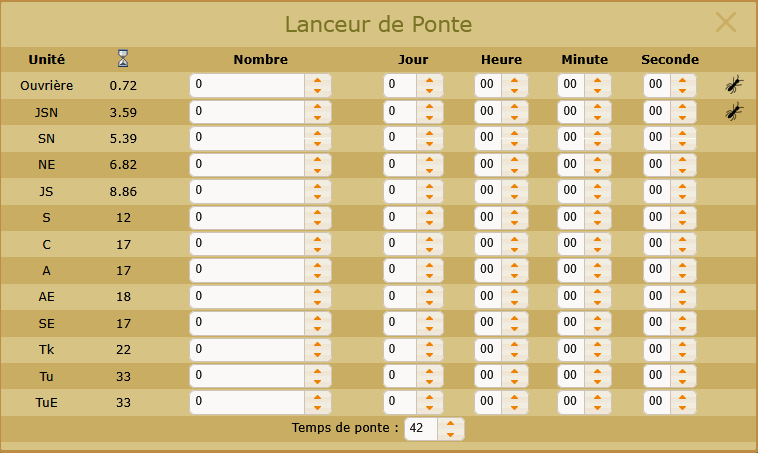
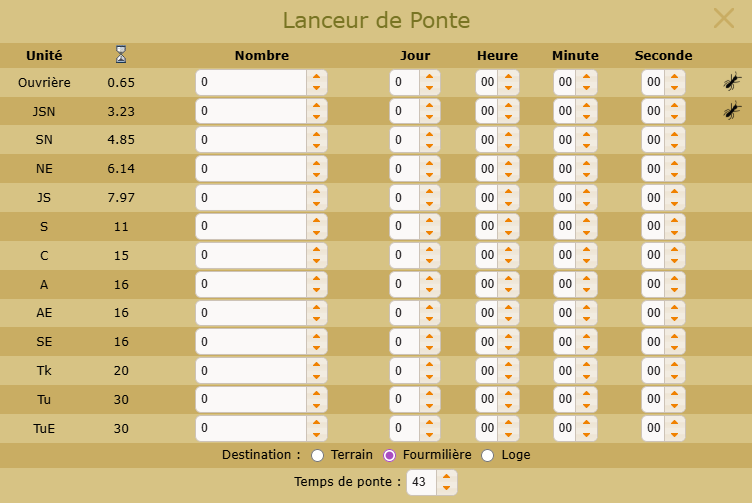
docs(wiki): document destination radio + new À propos link, simplify install
- Lanceur-de-Ponte: new "Destination" section for the Terrain/Fourmilière/
  Loge radios added in 5eda7b8 (defaults to Fourmilière) and refreshed
  screenshot.
- Boite-Parametres: mention the new Wiki link in the À propos tab list
  added in 51efb5b.
- Home: replace store-link placeholders with the actual Chrome Web Store
  and AMO URLs.
- Installation: rewrite around the README-style install banner (browser
  icons + version badges) — much shorter, more visual, matches the
  signal-to-noise ratio of the README.

diff --git a/wiki/Installation.md b/wiki/Installation.md
@@ -1,42 +1,34 @@
 ## Installation
 
-Toolzzz est publiée sur les stores officiels Chrome et Firefox. Pour la majorité des joueurs, l'installation tient en deux clics. Une procédure manuelle est aussi disponible si tu préfères installer une version précise depuis GitHub.
+Toolzzz est publiée sur les stores officiels Chrome et Firefox — l'installation tient en deux clics.
 
-## Sur Chrome (et navigateurs Chromium)
+[link-chrome]: https://chromewebstore.google.com/detail/toolzzz/ehdkpodbbmnmojgijhoogcjakbkokfpe "Toolzzz sur le Chrome Web Store"
+[link-firefox]: https://addons.mozilla.org/fr/firefox/addon/toolzzz/ "Toolzzz sur Mozilla Add-ons"
 
-L'extension fonctionne sur **Chrome**, **Edge**, **Opera**, **Brave** et toute autre variante basée sur Chromium.
+[<img src="https://raw.githubusercontent.com/alrra/browser-logos/90fdf03c/src/chrome/chrome.svg" width="48" alt="Chrome" valign="middle">][link-chrome] [<img valign="middle" src="https://img.shields.io/chrome-web-store/v/ehdkpodbbmnmojgijhoogcjakbkokfpe.svg?label=%20">][link-chrome] aussi compatible avec [<img src="https://raw.githubusercontent.com/alrra/browser-logos/90fdf03c/src/edge/edge.svg" width="24" alt="Edge" valign="middle">][link-chrome] [<img src="https://raw.githubusercontent.com/alrra/browser-logos/90fdf03c/src/opera/opera.svg" width="24" alt="Opera" valign="middle">][link-chrome]
 
-1. Ouvre la page Toolzzz sur le Chrome Web Store : <!-- LIEN STORE À AJOUTER -->
-2. Clique sur **Ajouter à Chrome** puis confirme l'installation.
-3. Va sur [www.fourmizzz.fr](http://www.fourmizzz.fr) — la toolbar Toolzzz apparaît automatiquement à droite de la page (ou en bas si tu es sur écran étroit).
+[<img src="https://raw.githubusercontent.com/alrra/browser-logos/90fdf03c/src/firefox/firefox.svg" width="48" alt="Firefox" valign="middle">][link-firefox] [<img valign="middle" src="https://img.shields.io/amo/v/toolzzz.svg?label=%20">][link-firefox]
 
-Aucune connexion ni configuration n'est nécessaire au premier lancement : tes paramètres seront créés automatiquement et stockés localement par ton navigateur.
+Une fois installé, va sur [www.fourmizzz.fr](http://www.fourmizzz.fr) — la toolbar apparaît automatiquement. Aucune connexion ni configuration n'est nécessaire au premier lancement.
 
-> Astuce : épingle l'icône de l'extension à la barre Chrome (puzzle → punaise) pour la rendre plus visible. Tu n'en auras pas vraiment besoin pour utiliser Toolzzz, mais ça aide à vérifier qu'elle est bien active sur le domaine fourmizzz.fr.
+## Sur mobile
 
-## Sur Firefox
+L'extension fonctionne aussi sur **Firefox pour Android** (Chrome Android ne supporte pas les extensions). Même lien AMO que sur desktop. Version 142+ recommandée pour bénéficier de la déclaration de confidentialité côté store.
 
-1. Ouvre la page Toolzzz sur Mozilla Add-ons (AMO) : <!-- LIEN STORE À AJOUTER -->
-2. Clique sur **Ajouter à Firefox** puis confirme l'autorisation d'accéder à fourmizzz.fr.
-3. Recharge l'onglet du jeu si tu en avais déjà un d'ouvert.
+## Installation manuelle
 
-L'extension fonctionne sur **Firefox desktop** et **Firefox pour Android** (version 142 minimum sur mobile pour bénéficier de la déclaration de confidentialité). Sur les versions plus anciennes, le store affichera un avertissement mais l'extension reste fonctionnelle.
-
-## Installation manuelle (depuis GitHub Releases)
-
-Cette méthode est utile si tu veux **tester une version précise**, ou si l'extension a été retirée temporairement d'un store le temps d'une revue. Les artefacts publiés sur GitHub Releases sont strictement identiques à ceux soumis aux stores.
+Utile si tu veux tester une version précise, ou si l'extension est temporairement absente d'un store. Les artefacts publiés sur [GitHub Releases](https://github.com/GuiEpi/toolzzz/releases) sont strictement identiques à ceux soumis aux stores.
 
 ### Chrome / Chromium
 
-1. Télécharge le fichier `toolzzz-X.Y.Z-chrome.zip` depuis la page [Releases](https://github.com/GuiEpi/toolzzz/releases).
-2. Décompresse l'archive dans un dossier permanent (si tu le supprimes, l'extension sera désinstallée).
-3. Ouvre `chrome://extensions/`, active **Mode développeur** en haut à droite.
-4. Clique sur **Charger l'extension non empaquetée** et sélectionne le dossier décompressé.
+1. Télécharge `toolzzz-X.Y.Z-chrome.zip` depuis la page Releases.
+2. Décompresse-le dans un dossier permanent (le supprimer désinstalle l'extension).
+3. Ouvre `chrome://extensions/`, active **Mode développeur**, clique **Charger l'extension non empaquetée**, sélectionne le dossier.
 
 ### Firefox
 
-L'installation hors store sur Firefox stable nécessite une version Developer Edition, Nightly, ou ESR avec `xpinstall.signatures.required = false`. Pour un usage normal, préfère le store AMO.
+L'installation hors store sur Firefox stable nécessite une édition Developer / Nightly / ESR avec `xpinstall.signatures.required = false`. Pour un usage normal, préfère AMO.
 
 ## Mise à jour
 
-Quand tu installes via un store, les mises à jour se font automatiquement. À chaque nouvelle version, un toast `Toolzzz mis à jour` s'affiche au premier chargement d'une page Fourmizzz pour te le signaler.
+Les mises à jour passent automatiquement par les stores. À chaque nouvelle version, un toast `Toolzzz mis à jour` s'affiche au premier chargement d'une page Fourmizzz.

diff --git a/wiki/Lanceur-de-Ponte.md b/wiki/Lanceur-de-Ponte.md
@@ -21,6 +21,10 @@ Deux façons de remplir une ligne :
 
 La synchronisation est bidirectionnelle : tu peux ajuster en allers-retours sans réinitialiser. Si tu saisis un nombre supérieur à la limite que ta fourmilière peut produire en une fois (limite serveur Fourmizzz), Toolzzz le borne automatiquement.
 
+## Destination
+
+Au-dessus du slider TDP, trois radios choisissent où la ponte est livrée : **Terrain**, **Fourmilière** (par défaut) ou **Loge**. Le choix est lu au moment du lancement et reproduit le sélecteur natif de la page Reine.
+
 ## Le slider TDP
 
 Le champ **Temps de ponte** en bas de la boîte est pré-rempli avec ton niveau actuel de TDP. Tu peux le modifier pour **simuler** une autre situation : par exemple, voir combien de temps prendrait la même ponte si tu montais de 5 niveaux de TDP, ou inversement combien d'unités en plus tu pourrais pondre dans le même créneau.

diff --git a/wiki/Boite-Parametres.md b/wiki/Boite-Parametres.md
@@ -45,4 +45,4 @@ Les changements sont appliqués en temps réel : tu peux ouvrir une autre boîte
 
 ## Onglet _À propos_
 
-Affiche la version courante de Toolzzz, un lien vers le code source GitHub, deux liens pour signaler un bug ou proposer une fonctionnalité, et la mention du projet original Outiiil (Hraesvelg / Freddy) sous licence GPL-3.0. Pas de réglages dans cet onglet — c'est un récap pratique pour retrouver les bons liens.
+Affiche la version courante de Toolzzz et quatre liens utiles : le **Wiki** (cette page), le **code source** sur GitHub, et deux raccourcis pour **signaler un bug** ou **proposer une fonctionnalité**. Pied de page : la mention du projet original Outiiil (Hraesvelg / Freddy) sous licence GPL-3.0. Pas de réglages dans cet onglet — c'est un récap pratique pour retrouver les bons liens.

diff --git a/wiki/Home.md b/wiki/Home.md
@@ -34,5 +34,5 @@ Ce wiki est destiné aux joueurs qui veulent comprendre ce que l'extension appor
 ## Liens utiles
 
 - Code source : https://github.com/GuiEpi/toolzzz
-- Chrome Web Store : <!-- LIEN STORE À AJOUTER -->
-- Firefox Add-ons : <!-- LIEN STORE À AJOUTER -->
+- Chrome Web Store : https://chromewebstore.google.com/detail/toolzzz/ehdkpodbbmnmojgijhoogcjakbkokfpe
+- Firefox Add-ons : https://addons.mozilla.org/fr/firefox/addon/toolzzz/
